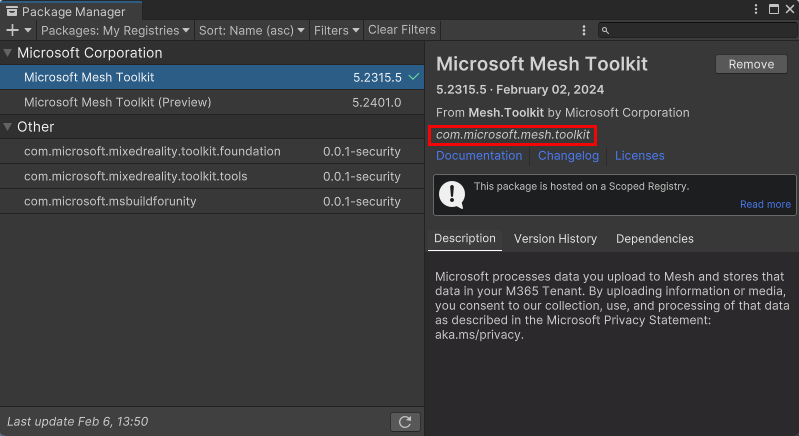
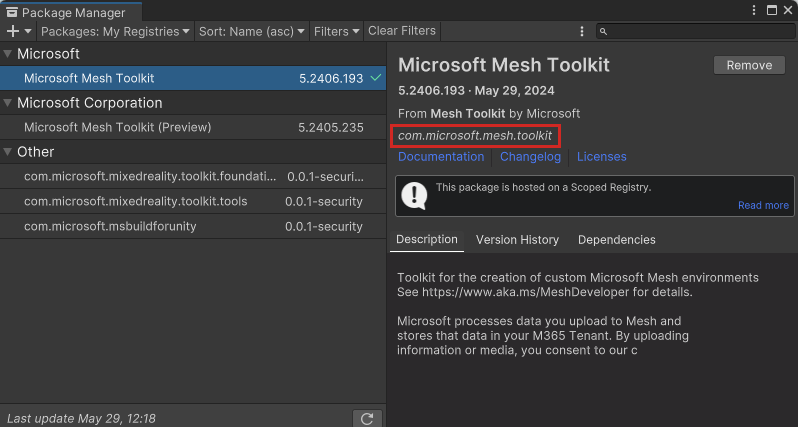
edits-052924-1418

diff --git a/mesh/develop/build-your-basic-environment/add-the-mesh-toolkit-package.md b/mesh/develop/build-your-basic-environment/add-the-mesh-toolkit-package.md
@@ -4,7 +4,7 @@ description: Instructions for adding the Mesh toolkit package to your project.
 ms.service: mesh
 author: typride
 ms.author: vinnietieto
-ms.date: 12/15/2023
+ms.date: 5/29/2024
 ms.topic: overview
 keywords: Microsoft Mesh, getting started, toolkit, Mesh toolkit, import, registry, scoped registry, packages
 ---
@@ -40,7 +40,7 @@ When you install the Mesh toolkit, it does the following:
 
    ![A screenshot of the Package Manager with the Packages drop down highlighted.](../../media/build-your-basic-environment/001-packages-drop-down.png)
 
-1. In the list, you'll see the stable and preview build of the **Microsoft Mesh Toolkit**. 
+1. In the list, you'll current build of the **Microsoft Mesh Toolkit**. 
 
     Select **Microsoft Mesh Toolkit** (the full package name should be **com.microsoft.mesh.toolkit**, as highlighted in the image below) and then click the **Install** button.
 
@@ -48,20 +48,10 @@ When you install the Mesh toolkit, it does the following:
 
 When the spinner animation next to the package list stops, the package has finished downloading.
 
-## Microsoft Mesh preview
+> [!NOTE]
+> For versions of the toolkit prior to 5.2406.X, we released both a stable build and a preview build. Starting with version 5.2406.X, there's no longer a preview build. This change also applies to the Microsoft Mesh application; the preview version is deprecated and will no longer be released.
 
-In addition to the stable release builds, we offer a preview build and preview toolkit. These are ideal for developers who want to test out upcoming features and prepare in advance for the next public build. The preview toolkit and preview build of Microsoft Mesh should be used together.
-
-We promote the preview build to the stable public build at regular intervals. As of November 2023, this happens every three weeks. If you downloaded the Mesh toolkit through the Package Manager in Unity, you should have both the Preview and Stable build.
-
-:::image type="content" source="../../media/build-your-basic-environment/003-mesh-toolkit-preview.png" alt-text="A screenshot of the Unity Package manager showing the Mesh toolkit.":::
-
-> [!Caution]
-> Take caution when developing with the preview release of the Mesh toolkit. Environments published with this preview version of the Mesh toolkit will only work with the preview version of Mesh, and **are not compatible with the stable version of Mesh**.
->
-> **Be careful not to overwrite stable environments currently in use by your company with environments using the preview toolkit.**
-
-**To download the latest Mesh toolkit or preview version via GitHub**:
+**To download the latest Mesh toolkit via GitHub**:
 See the [Mesh Toolkit for Unity | GitHub](https://github.com/microsoft/Mesh-Toolkit-Unity/releases).
 
 ## Next steps
